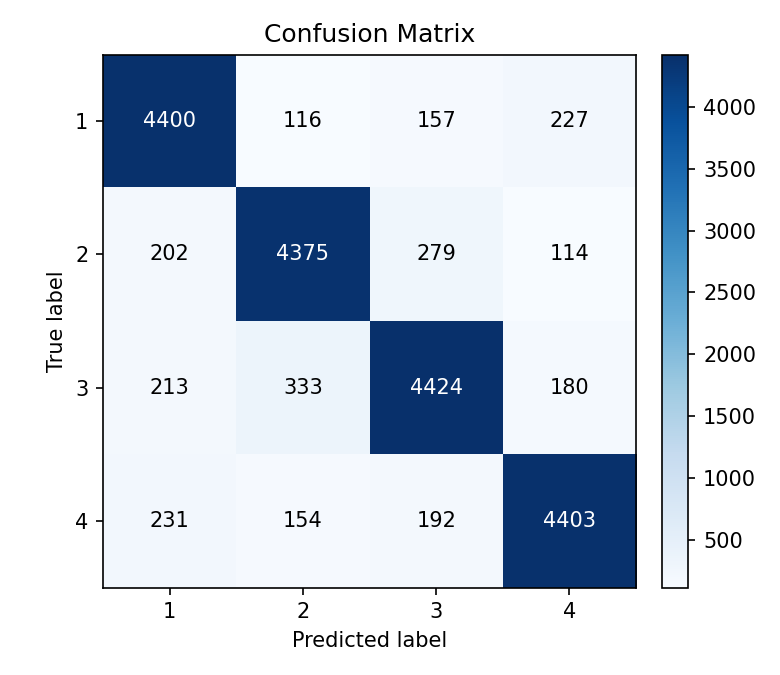
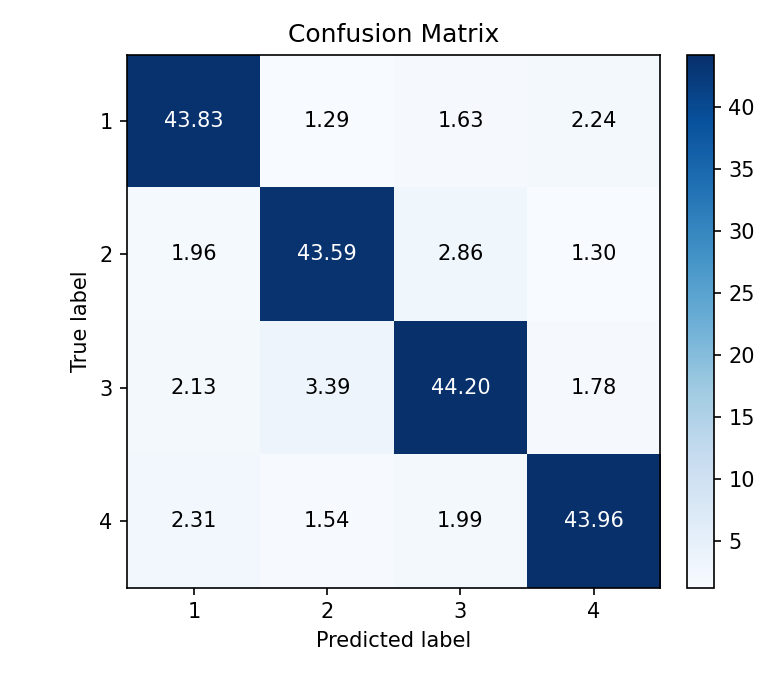
Changed confusion matrix

diff --git a/For_70050/prune_evaluation.py b/For_70050/prune_evaluation.py
@@ -159,7 +159,7 @@ def run_prune_evaluation(clean_dataset, noisy_dataset, outdir: Path):
 
         # Run nested cross-validation evaluation
         all_accs, all_cms, all_classes, depths_before, depths_after = nested_cv_evaluate_pruned(
-            dataset.features, dataset.labels, outer_k=10, inner_k=10, seed=42
+            dataset.features, dataset.labels, outer_k=10, inner_k=9, seed=42
         )
 
         # Print summary statistics
@@ -183,8 +183,8 @@ def run_prune_evaluation(clean_dataset, noisy_dataset, outdir: Path):
                   f"Precision={precision_dict[cls]:.4f}, F1={f1_dict[cls]:.4f}")
 
         # Save confusion matrix plots
-        plot_confusion_matrix(agg_cm, classes, outdir / f"cm_{dataset_name}_pruned_counts.png", normalize=False)
-        plot_confusion_matrix(agg_cm, classes, outdir / f"cm_{dataset_name}_pruned_normalized.png", normalize=True)
+        plot_confusion_matrix(agg_cm/90, classes, outdir / f"cm_{dataset_name}_pruned.png", normalize=False)
+        plot_confusion_matrix(agg_cm/90, classes, outdir / f"cm_{dataset_name}_pruned_normalized.png", normalize=True)
 
         # Analyze and display tree depth reduction before/after pruning
         print(f"\nDepth Analysis for {dataset_name}:")

diff --git a/For_70050/main.py b/For_70050/main.py
@@ -77,7 +77,7 @@ def main() -> None:
         classes = list(map(int, np.unique(data.labels).astype(int)))
 
         mean_acc = results["mean_accuracy"]
-        mean_cm = results["mean_confusion_matrix"] / args.k    # Mean confusion matrix across folds
+        mean_cm = results["mean_confusion_matrix"]    # Mean confusion matrix across folds
         per_prec = results["mean_precision"]          # Mean per-class precision across folds
         per_rec = results["mean_recall"]              # Mean per-class recall across folds
         per_f1 = results["mean_f1"]                   # Mean per-class F1 across folds
@@ -94,7 +94,7 @@ def main() -> None:
         print("Per-class F1       :", np.round(per_f1, 4))
 
         # Plot the overall confusion matrix from cross-validation (counts & normalized)
-        plot_confusion_matrix(mean_cm, classes, outdir / f"cv_cm_{selected_name}_counts.png", normalize=False)
+        plot_confusion_matrix(mean_cm, classes, outdir / f"cv_cm_{selected_name}.png", normalize=False)
         plot_confusion_matrix(mean_cm, classes, outdir / f"cv_cm_{selected_name}_normalized.png", normalize=True)
 
 

diff --git a/For_70050/metrics.py b/For_70050/metrics.py
@@ -179,7 +179,7 @@ def cross_val_evaluate(model_factory, X: np.ndarray, y: np.ndarray, k: int = 10,
 
     Returns:
         Dict[str, np.ndarray]: Dictionary of aggregated results:
-            - "mean_confusion_matrix" (np.ndarray): Sum of confusion matrices across folds.
+            - "mean_confusion_matrix" (np.ndarray): Average of confusion matrices across folds.
             - "mean_accuracy" (float): Mean accuracy across folds.
             - "mean_precision" (np.ndarray): Mean per-class precision.
             - "mean_recall" (np.ndarray): Mean per-class recall.
@@ -210,8 +210,8 @@ def cross_val_evaluate(model_factory, X: np.ndarray, y: np.ndarray, k: int = 10,
         recalls.append(res["recall"])
         f1s.append(res["f1"])
 
-    # Aggregate confusion matrices (sum counts over folds)
-    mean_cm = np.sum(cms, axis=0)
+    # Average confusion matrices
+    mean_cm = np.mean(cms, axis=0)
     # Average scalar and vector metrics
     mean_acc = float(np.mean(accuracies))
     mean_precision = np.mean(precisions, axis=0)

diff --git a/For_70050/visualize.py b/For_70050/visualize.py
@@ -38,7 +38,11 @@ def plot_confusion_matrix(cm: np.ndarray, classes: list[int], out_path: Path, no
         fmt = ".2f" # Format with 2 decimal places
     else:
         data = cm
-        fmt = "d" # Integer format
+        # Use integer format only if all values are integers
+        if np.issubdtype(data.dtype, np.integer):
+            fmt = "d"
+        else:
+            fmt = ".2f"
 
     plt.figure(figsize=(5.2, 4.5))
     im = plt.imshow(data, interpolation="nearest", cmap=plt.cm.Blues)
